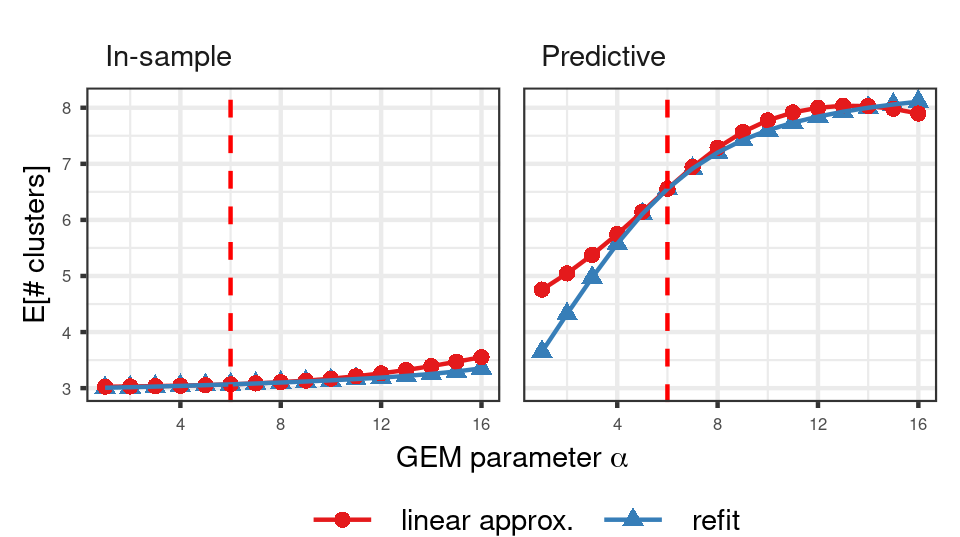
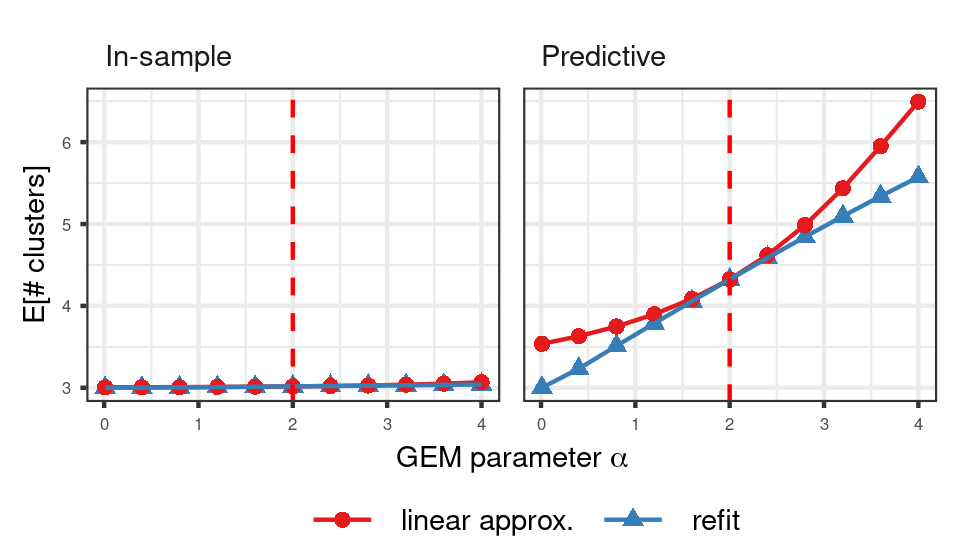
iris parametric

diff --git a/writing/journal_paper/iris_experiments.tex b/writing/journal_paper/iris_experiments.tex
@@ -36,26 +36,28 @@ collected.
 
 \subsubsection*{Parametric sensitivity}
 
-We explore how the posterior number of clusters,
-either insample or predictive, varies with different choices
-of the GEM parameter $\alpha$.
-The \textit{a priori} expected number of clusters under a GEM is
-\todo{Give this equation a left hand side}
+We first explore sensitivity of the in-sample and posterior predictive number of
+clusters to the concentration parameter, $\alpha$, using the results in
+\secref{diffable_concentration}.  To choose a plausible range of $\alpha$,
+recall that, under the GEM$(\alpha)$ prior, the {\em a priori} expected
+number of distinct clusters in a dataset of size $N$ is given
+\citep{jordan:2015:gentleintrodp} by
+%
 \begin{align}\eqlabel{prior_num_clusters}
-\sum_{\n = 1}^\N \frac{\alpha}{\alpha + \n - 1},
+\expect{\p(\z \vert \pi)\p(\pi \vert \alpha)}{\nclusters(\z)} =
+\sum_{\n = 1}^\N \frac{\alpha}{\alpha + \n - 1}.
 \end{align}
-where $\N$ is the number of observations \citep{jordan:2015:gentleintrodp}.
+%
+Using this formula, we take $\alpha\in[0.1, 4.0]$, corresponding to an an {\em a
+priori} range of approximately $1.5$ to $15$ clusters.  Over this range, the
+shape of the stick-breaking density varies considerably, as shown in
+\figref{beta_priors}.  We take $\alpha_0 = 2$, near the middle of the range, and
+use the prior $\p(\nuk \vert \alpha_0)$ as the base prior at which we compute
+the derivatives for all the results below.  \Figref{iris_fit} shows the
+posterior clustering for $\alpha_0$.  For our base prior, the posterior thus
+recovers the known ground truth that there are in truth three distinct species.
 
-For the iris data set, we
-consider the range $\alpha\in[0.1, 4.0]$.
-Using \eqref{prior_num_clusters},
-the prior number of clusters is $\approx 1.5$ when $\alpha = 0.1$ and
-$\approx 15$ when $\alpha = 4.0$.
-The shape of the stick-breaking density varies
-considerably for this range of $\alpha$ (\figref{beta_priors}),
-and without knowing the true number of iris species,
-it may be unclear which $\alpha$ to choose.
-
+\todo{Bryan: these should all have the same y-axis scale}
 
 \begin{knitrout}
 \definecolor{shadecolor}{rgb}{0.969, 0.969, 0.969}\color{fgcolor}\begin{figure}[!h]
@@ -71,13 +73,7 @@ it may be unclear which $\alpha$ to choose.
 \end{knitrout}
 
 
-\todo{It's not arbitrary, you chose the midpoint of a plausible range}
-We arbitrarily pick $\alpha_0 = 2$, near the midpoint of our considered range, and
-\figref{iris_fit} shows the GMM fit with this prior choice.
-The BNP model identifies three dominant clusters, agreeing with the
-known fact that there are three iris species in this dataset.
-We now investigate whether this result is sensitive to our choice of $\alpha$.
-
+\todo{Bryan: the caption says $\alpha=6$, but the text says $\alpha=2$.}
 
 \begin{knitrout}
 \definecolor{shadecolor}{rgb}{0.969, 0.969, 0.969}\color{fgcolor}\begin{figure}[!h]
@@ -99,56 +95,7 @@ We now investigate whether this result is sensitive to our choice of $\alpha$.
 \end{knitrout}
 
 
-% Our posterior quantities,
-% the expected number of in-sample clusters and
-% the expected number of predictive clusters,
-% were defined in~\exref{insample_nclusters, predictive_nclusters}.
-% For this application,
-% we do not use thresholding in computing the number of clusters
-% (i.e. we set $\tau = 0$),
-% so we simply write $\gclustersabbr$ and $\gclusterspredabbr$ for the
-% in-sample and predictive quantities, respectively.
-\todo{This paragraph is unnecessary, it's all already above}
-We formed the linear approximation at the initial
-$\alpha_0 = 2$ fit.
-Without further optimization, we use the linear approximation
-to quickly evaluate
-$\etalinglobal(\alpha)$ for a sequence of $\alpha$'s
-in the range $\alpha \in [0.1, 4.0]$,
-and produce posterior quantities $g(\etalinglobal(\alpha))$.
-
-\todo{I think there's a lot of text redundantly summarizing what's
-already in the graphics}
-For this range of $\alpha$,
-the predictive quantity appears much more sensitive than
-the in-sample quantity (\figref{iris_alpha_sens}).
-The in-sample quantity $\gclustersabbr(\etalinglobal(\alpha))$ is nearly constant with value $\approx 3$.
-On the other hand, over the same range of $\alpha$,
-the predictive quantity $\gclusterspredabbr(\etalinglobal(\alpha))$
-varies from
-3.0 to
-5.6.
-
-\todo{Put the timing information in its own table, and in text you can just
-say the approximation is much faster.}
-Subsequent refits at $\alpha\not=\alpha_0$ confirm the sensitivity conclusions
-of our linearized variational parameters.
-The values $\g(\etalinglobal(\alpha))$ closely mimic the
-values $g(\etaopt(\alpha))$ found by refitting
-the variational parameters at each $\alpha$.
-Importantly,
-the linear approximation is an order of magnitude faster than refitting.
-Forming the linear approximation at $\alpha = \alpha_0$,
-required 0.02 seconds.
-After forming the linear approximation,
-computing $\etalinglobal(\alpha)$ for the sequence
-of $\alpha$'s considered in \figref{iris_alpha_sens} took another
-0.01 seconds.
-On the other hand, to refit $\etaopt(\alpha)$ for the set of
-$\alpha$s took a total of  9 seconds, with a median refit time of 0.5 seconds.
-
-\todo{I think this caption does not need to re-state things that are
-clear enough in the legend}
+\todo{Bryan: Maybe don't hard-code 2 in the caption?}
 
 \begin{knitrout}
 \definecolor{shadecolor}{rgb}{0.969, 0.969, 0.969}\color{fgcolor}\begin{figure}[!h]
@@ -177,15 +124,21 @@ In blue, the expected number of clusters obtained by refitting the model at each
 
 \end{knitrout}
 
+\Figref{iris_alpha_sens} shows both the posterior in-sample and predictive
+number of distinct clusters as $\alpha$ varies.  Over this range of $\alpha$,
+the in-sample number of clusters is quite robust, but the posterior predictive
+number of clusters is non-robust, ranging roughly from 3.0 to 5.6 expected
+species.  Our approximation captures this qualititative behavior. As expected,
+the approximation is least accurate furthest from the $\alpha_0$ at which it is
+evalutated.
 
-%
-% - we demonstrate the utility of the influence function
-% - figure ref top three rows shows three different functional perturbations.
-% - can't really tell from densities how these will affect posterior statistic
-% - but they do in fact have very different effects (in sign and size).
-% - but their effects make sense when looking at the influence function
-%
-% -last row is worst-case
+For this dataset, the linear approximation is an order of magnitude faster than
+refitting. Forming the linear approximation at $\alpha_0$ required
+0.02 seconds. After forming the linear
+approximation, computing $\etalinglobal(\alpha)$ for the sequence of $\alpha$'s
+considered in \figref{iris_alpha_sens} took another 0.01 seconds. On the other hand, to refit $\etaopt(\alpha)$ for
+the set of $\alpha$s took a total of  9 seconds, with a median refit time of
+0.5 seconds.
 
 \subsubsection*{Functional perturbations and the influence function}
 
